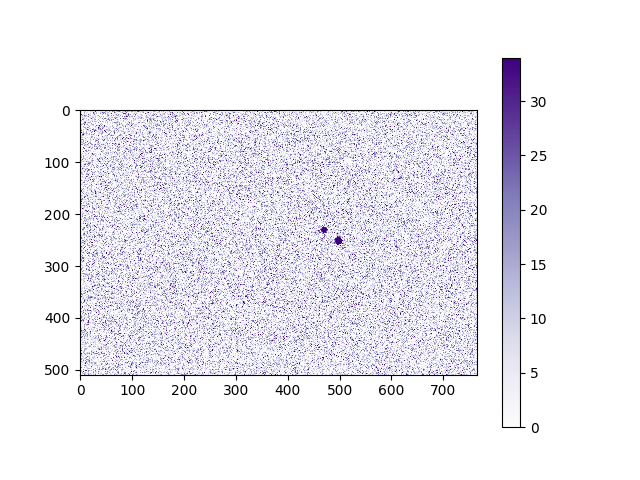
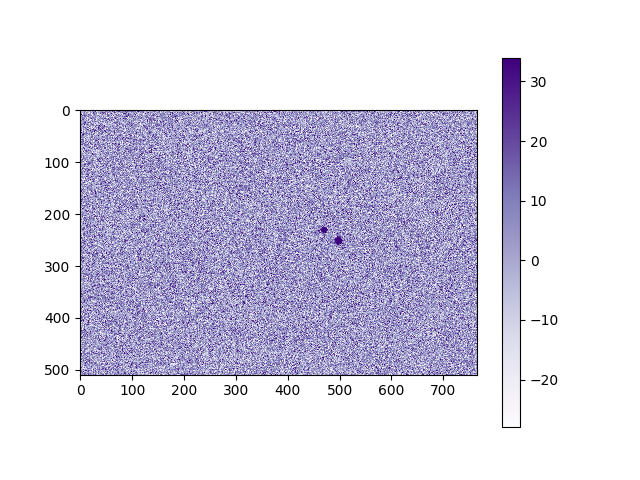
Stopped doing some sketchy stuff.

diff --git a/Lab2/lab2.py b/Lab2/lab2.py
@@ -4,12 +4,9 @@ import matplotlib.pyplot as plt
 
 color_palette = 'Purples'
 
-def save_image(data_frame, filepath, low=None, high=None):
+def save_image(data_frame, filepath):
     print('Saving', filepath)
-    if low == None:
-        low, _ = np.percentile(data_frame.flatten(), [0.5,99.5])
-    if high == None:
-        _, high = np.percentile(data_frame.flatten(), [0.5,99.5])
+    low, high_ = np.percentile(data_frame.flatten(), [0.5,99.5])
     plt.imshow(data_frame, cmap=color_palette, vmin=low, vmax=high)
     plt.colorbar()
     plt.savefig(filepath)
@@ -27,7 +24,10 @@ def save_fits(data_frame, filepath):
 
 #Load Dark Frames
 darkframes = [fits.getdata(f'raw_data/Albireo_V_Dark_100ms_{i:03}.FITS') for i in range(1,6)]
+for g in darkframes:
+    print(g.shape)
 med_dark_frame = np.median(darkframes, axis=0)
+print(med_dark_frame.shape)
 save_image(med_dark_frame, 'dark_fields/100ms.png')
 
 #V Band
@@ -35,7 +35,7 @@ for i in range(1,11):
     df = fits.getdata(f'raw_data/Albireo_V_100ms_{i:03}.FITS')
     save_image(df, f'data_fields/Albireo_V_100ms_{i:03}.png')
     dark_sub = df - med_dark_frame
-    save_image(dark_sub, f'subtracted_fields/Albireo_V_100ms_{i:03}.png', low=0)
+    save_image(dark_sub, f'subtracted_fields/Albireo_V_100ms_{i:03}.png')
     save_fits(dark_sub, f'subtracted_fields/Albireo_V_100ms_{i:03}.FITS')
 
 #I Band
@@ -43,7 +43,7 @@ for i in range(1,4):
     df = fits.getdata(f'raw_data/Albireo_I_100ms_{i:03}.FITS')
     save_image(df, f'data_fields/Albireo_I_100ms_{i:03}.png')
     dark_sub = df - med_dark_frame
-    save_image(dark_sub, f'subtracted_fields/Albireo_I_100ms_{i:03}.png', low=0)
+    save_image(dark_sub, f'subtracted_fields/Albireo_I_100ms_{i:03}.png')
     save_fits(dark_sub, f'subtracted_fields/Albireo_I_100ms_{i:03}.FITS')
 
 #B Band
@@ -51,7 +51,7 @@ for i in range(1,4):
     df = fits.getdata(f'raw_data/Albireo_B_100ms_{i:03}.FITS')
     save_image(df, f'data_fields/Albireo_B_100ms_{i:03}.png')
     dark_sub = df - med_dark_frame
-    save_image(dark_sub, f'subtracted_fields/Albireo_B_100ms_{i:03}.png', low=0)
+    save_image(dark_sub, f'subtracted_fields/Albireo_B_100ms_{i:03}.png')
     save_fits(dark_sub, f'subtracted_fields/Albireo_B_100ms_{i:03}.FITS')
 
 
